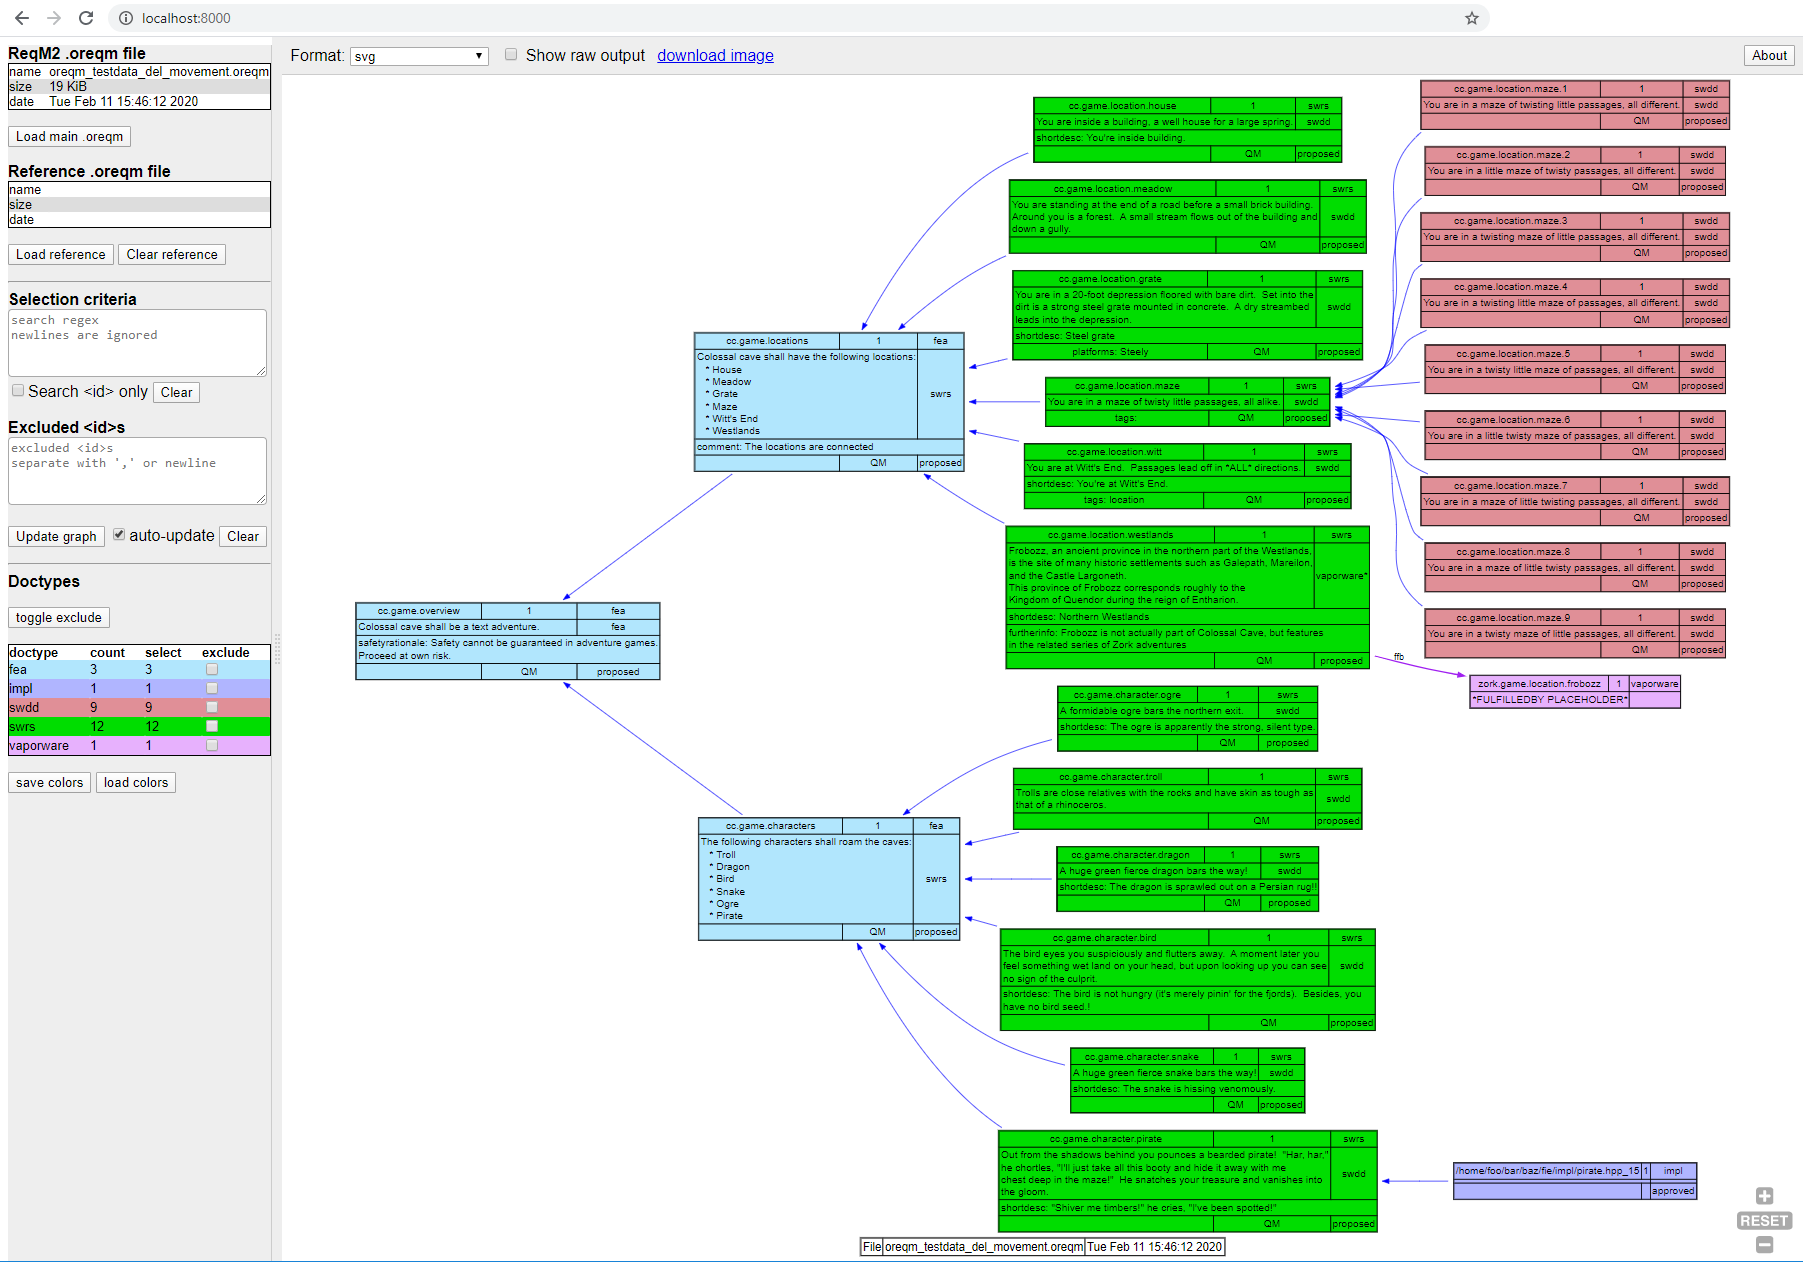
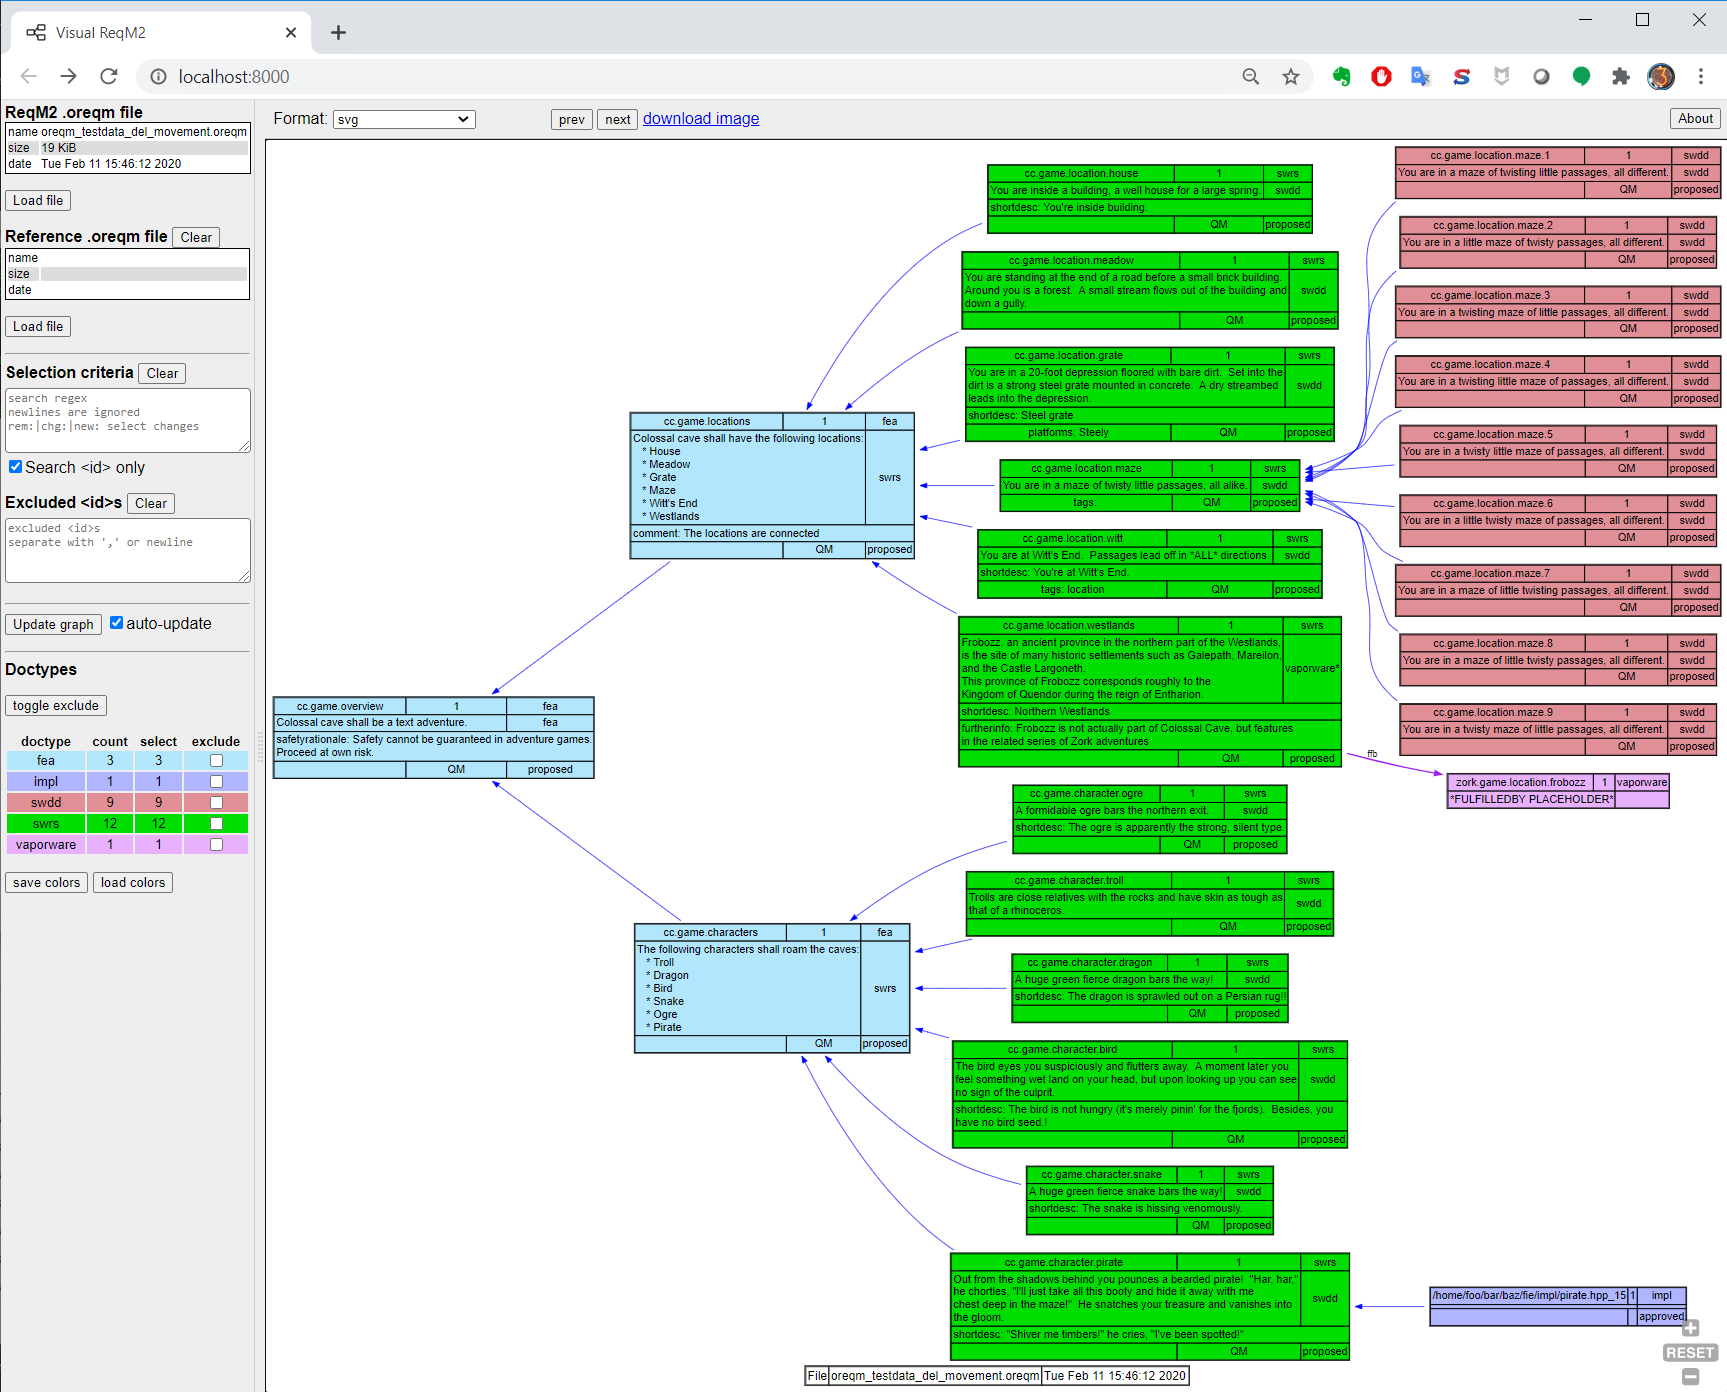
Update README and screenshots

Changed region(s): [[0.0, 0.0, 1.0, 1.0], [0.5217, 0.8653, 0.5524, 0.8962], [0.1228, 0.9889, 0.1534, 1.0]]

diff --git a/README.md b/README.md
@@ -181,4 +181,9 @@ There is a slide set in the ./doc folder with further details
 
 ## example diagram
 
-![Image](doc/visual-reqm2-screenshot.png "screenshot")
+### No selections - all nodes shown
+![Image](doc/visual-reqm2-screenshot.png "All nodes")
+
+
+### Compare two `.oreqm` files
+![Image](doc/visual-reqm2-screenshot-compare.png "differences and related nodes")
